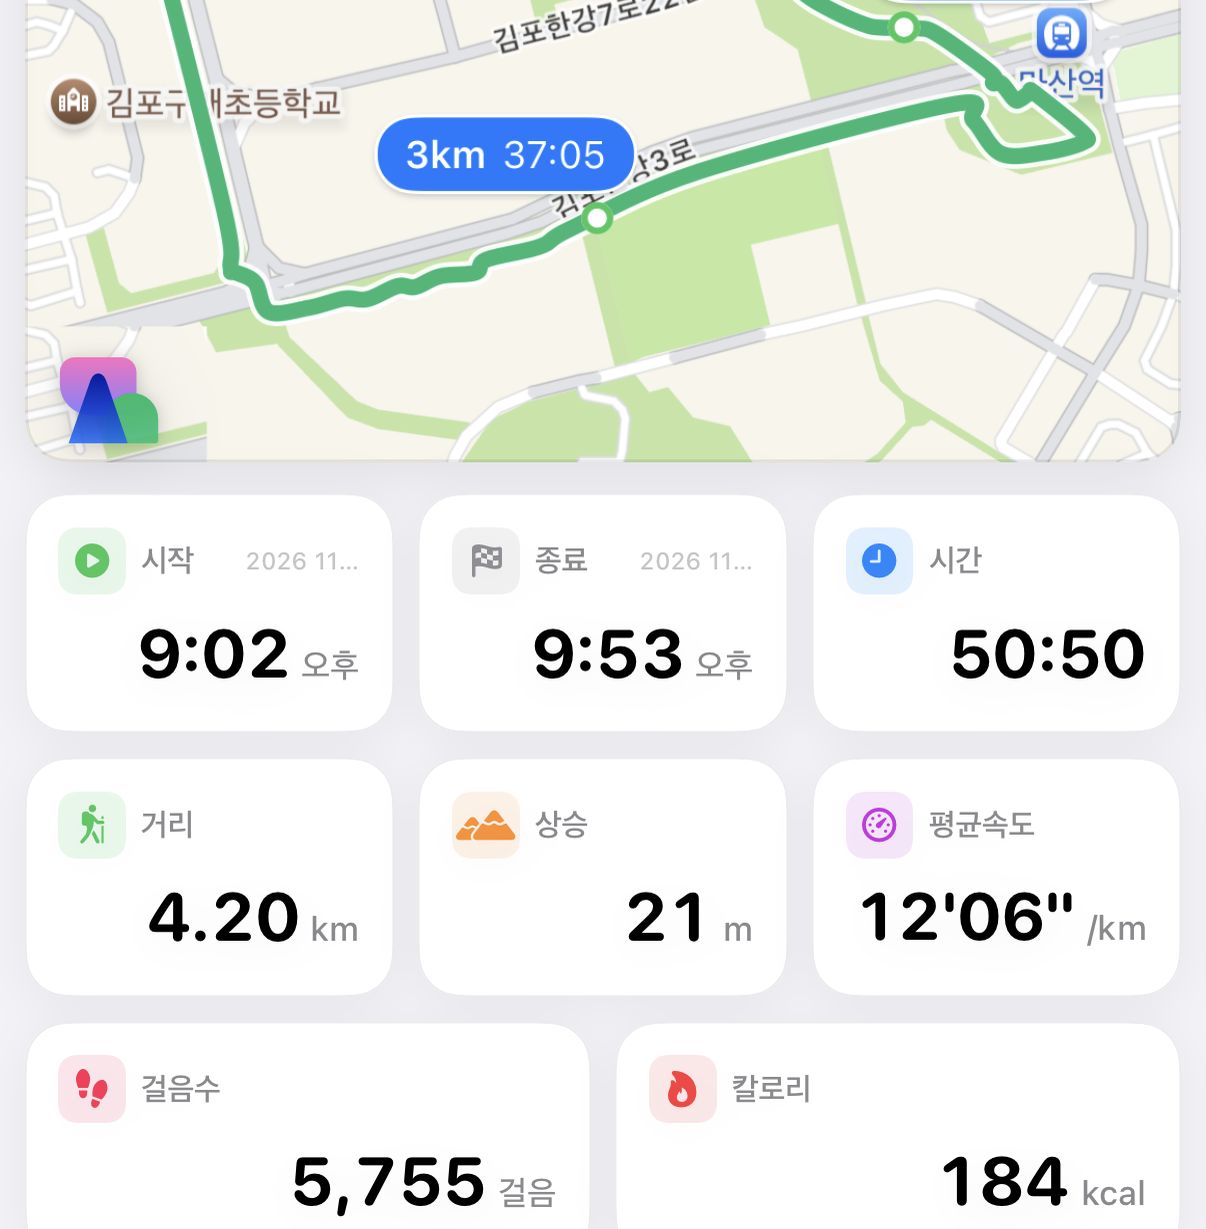
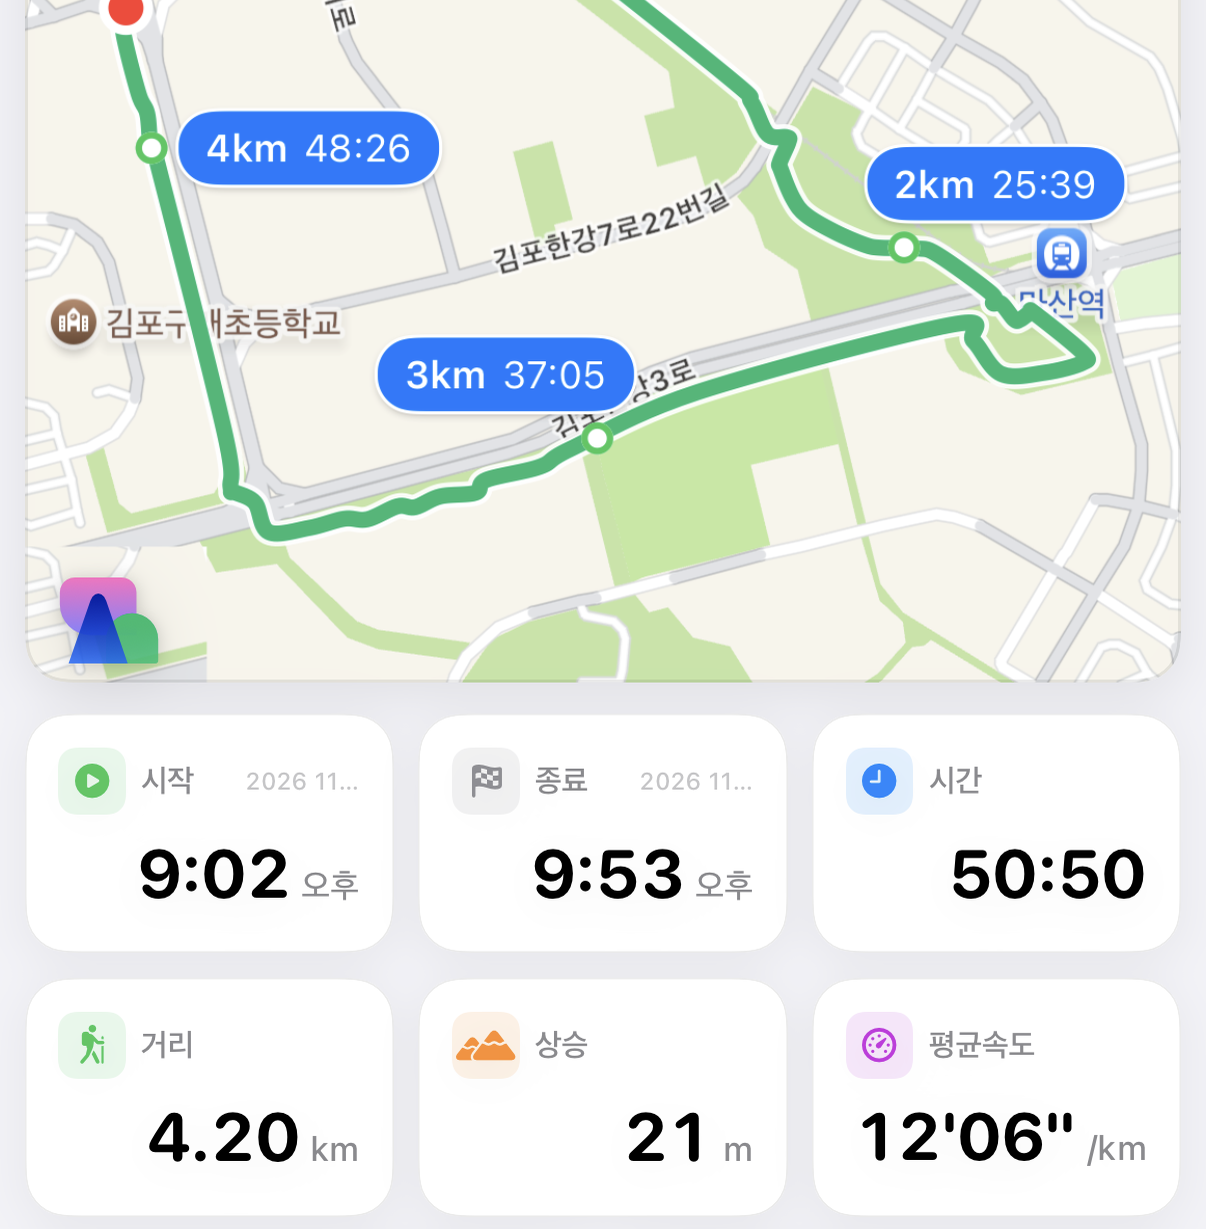
fix(ios): v16 CROP_SOT lock DC+120 / SC+180 + Fit
Authoritative shared crop: Data Card bias +120 (full 3km, primary rows,
clean gutter); Simple Color/Grey +180 (clean above second glass row).
Use scaledToFit so pre-framed 314:320 thumbs are not re-cropped.

diff --git a/sansan/ImageSaveStylePager.swift b/sansan/ImageSaveStylePager.swift
@@ -233,9 +233,10 @@ struct ImageSaveStylePager: View {
     private func pageImage(for style: HikingRecordImageSaveStyle) -> some View {
         if let image = ImageSaveStylePreviewImages.image(for: style) {
             // Resources are pre-framed 314∶320 per shared crop SoT (see v16 CROP_SOT).
+            // Fit (not Fill) so matching-aspect thumbs are not re-cropped at runtime.
             Image(uiImage: image)
                 .resizable()
-                .scaledToFill()
+                .scaledToFit()
                 .frame(maxWidth: .infinity, maxHeight: .infinity)
                 .clipped()
         } else {
